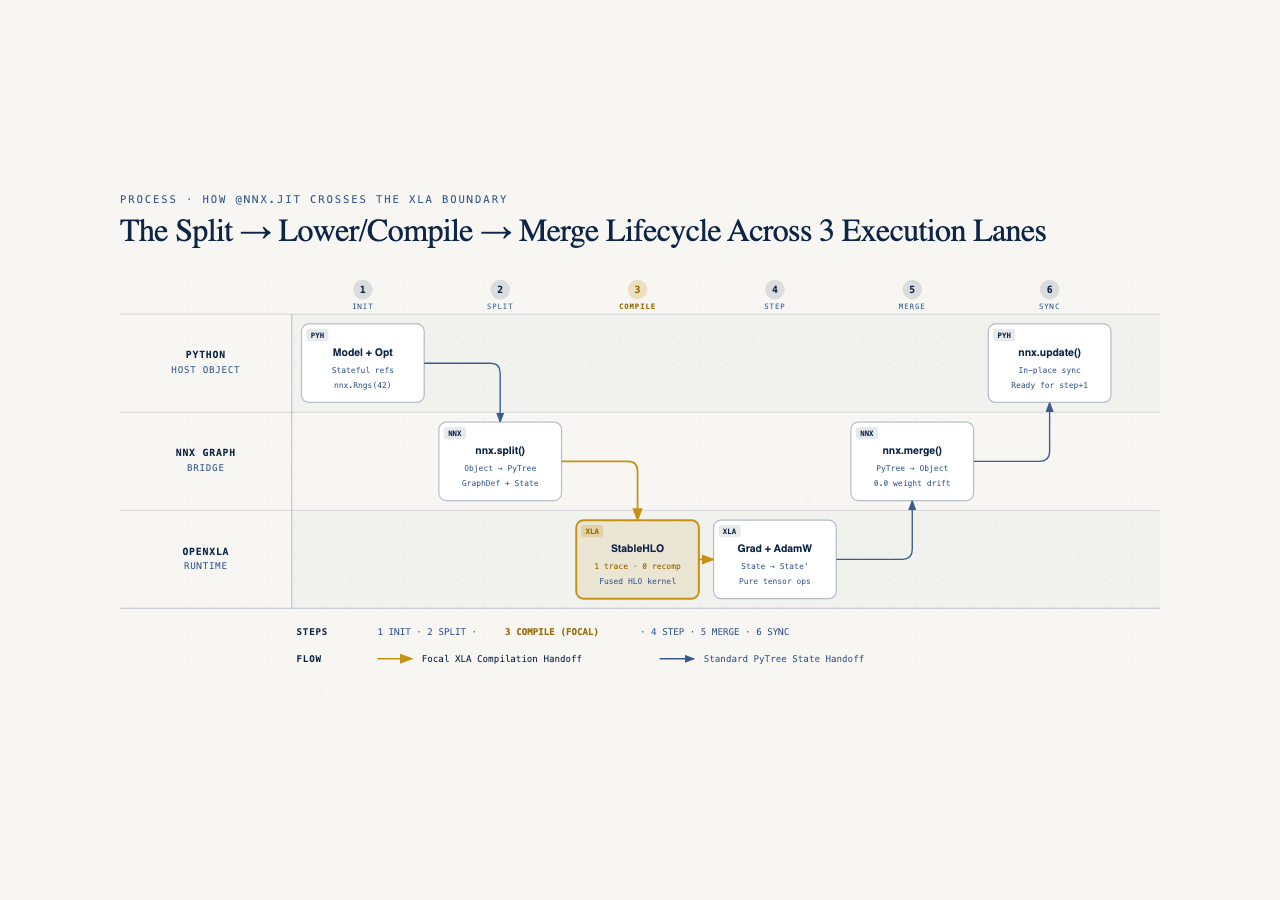
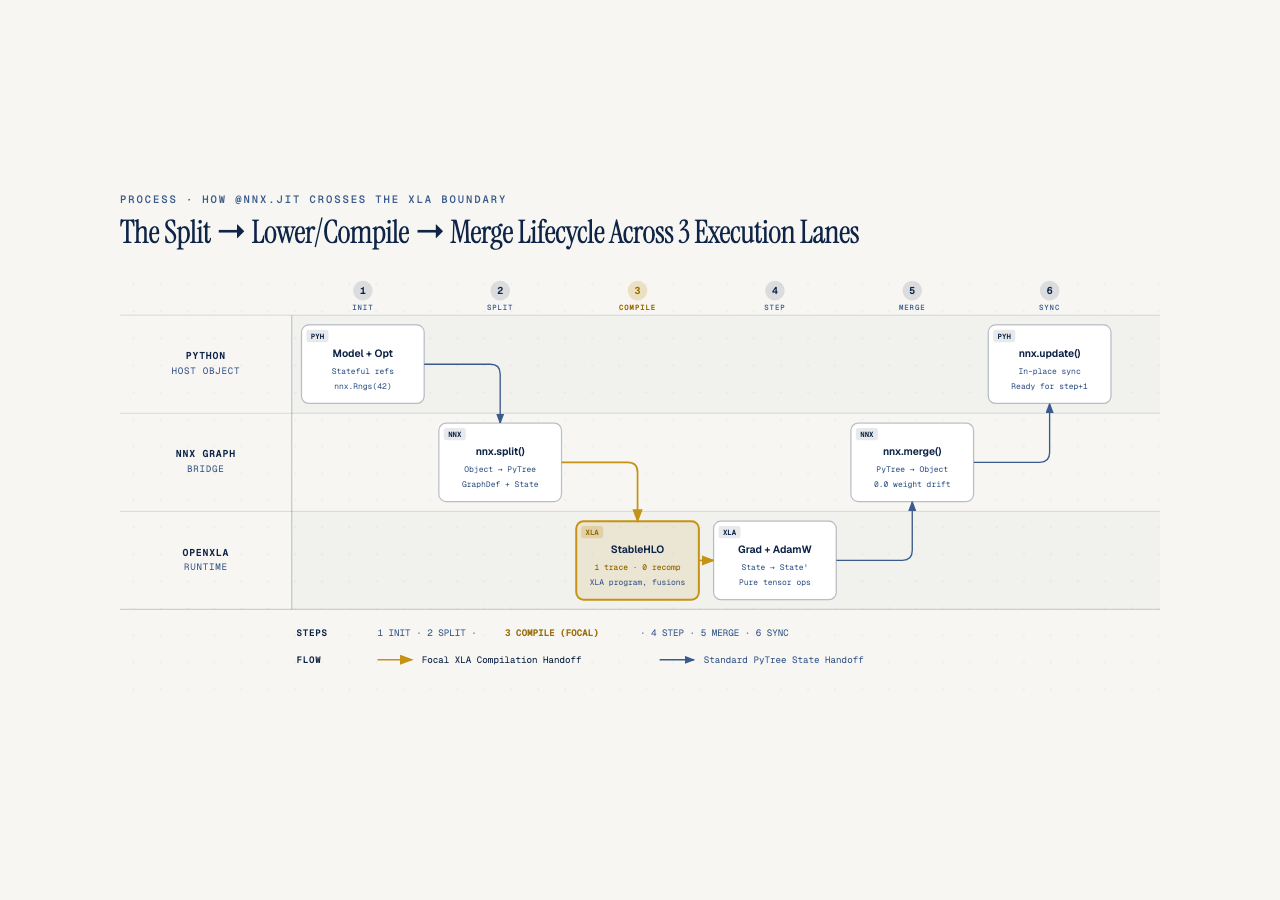
Reframe first-step ratio and fusion count labels; require flax>=0.12

diff --git a/diagrams/03-split-jit-merge.html b/diagrams/03-split-jit-merge.html
@@ -176,7 +176,7 @@
         <text x="385" y="215.5" fill="#9A6F0B" font-family="'Geist Mono', monospace" font-size="6" font-weight="600" text-anchor="middle">XLA</text>
         <text x="422" y="230" fill="#0F2547" font-family="'Geist', sans-serif" font-size="8.5" font-weight="600" text-anchor="middle">StableHLO</text>
         <text x="422" y="244" fill="#9A6F0B" font-family="'Geist Mono', monospace" font-size="6.5" text-anchor="middle">1 trace · 0 recomp</text>
-        <text x="422" y="256" fill="#3B5B8C" font-family="'Geist Mono', monospace" font-size="6.5" text-anchor="middle">Fused HLO kernel</text>
+        <text x="422" y="256" fill="#3B5B8C" font-family="'Geist Mono', monospace" font-size="6.5" text-anchor="middle">XLA program, fusions</text>
 
         <!-- Node 3: Lane 2 (XLA), Step 3 (x=484, y=204) -->
         <rect x="484" y="204" width="100" height="64" rx="6" fill="#FFFFFF" stroke="rgba(15,37,71,0.28)" stroke-width="1"/>

diff --git a/experiments/05_inspect_stablehlo_recompiles.py b/experiments/05_inspect_stablehlo_recompiles.py
@@ -127,13 +127,13 @@ def run_experiment(steps: int = 50) -> dict[str, Any]:
     print("=" * 72)
     print("EXPERIMENT 05: StableHLO Inspection & Zero-Recompilation Audit")
     print("=" * 72)
-    print(f"Python traces on Step 1 : {results['traces_on_step_1']}")
+    print(f"Traces before step 1    : {results['traces_on_step_1']}")
     print(f"Total traces (50 steps) : {results['total_traces_after_50_steps']}")
     print(f"Recompiles after Step 1 : {results['recompilations_after_step_1']}")
     print(f"StableHLO IR lines      : {results['stablehlo_line_count']}")
     print(f"stablehlo.dot_general   : {results['stablehlo_dot_general_count']}")
     print(f"stablehlo.reduce        : {results['stablehlo_reduce_count']}")
-    print(f"Compiled HLO fusions    : {results['compiled_hlo_fusion_mentions']}")
+    print(f"HLO lines with fusion   : {results['compiled_hlo_fusion_mentions']}")
     assert recompiles_after_warmup == 0, "Expected 0 recompilations after warmup!"
     return results
 

diff --git a/experiments/04_compiled_train_step.py b/experiments/04_compiled_train_step.py
@@ -215,7 +215,7 @@ def run_experiment(steps: int = 50) -> dict[str, Any]:
     print(f"Step 1 (Compile + Run)  : {results['first_step_compile_and_run_ms']:.2f} ms")
     print(
         f"Steps 2..{steps} Avg Latency : {results['steady_state_step_ms']:.3f} ms "
-        f"({results['speedup_after_jit']}x faster)"
+        f"(first step / cached step = {results['speedup_after_jit']}x)"
     )
     print(
         f"Loss trajectory         : {results['initial_loss']:.4f} -> "

diff --git a/README.md b/README.md
@@ -24,7 +24,7 @@ El modelo implementado en `experiments/03_causal_attention_rope.py` y `experimen
 
 ## El Puente `nnx.split` → `OpenXLA` → `nnx.merge`
 
-Los compiladores como `XLA` exigen funciones matemáticamente puras sin efectos secundarios ocultos. Cuando decoramos un paso de entrenamiento con `@nnx.jit`, `Flax NNX` ejecuta automáticamente `nnx.split(model)` para extraer un `(GraphDef, State)` puro, compila un único kernel fusionado en `StableHLO` y sincroniza los tensores actualizados de regreso a las referencias en memoria con `nnx.merge` / `nnx.update`.
+Los compiladores como `XLA` exigen funciones matemáticamente puras sin efectos secundarios ocultos. Cuando decoramos un paso de entrenamiento con `@nnx.jit`, `Flax NNX` ejecuta automáticamente `nnx.split(model)` para extraer un `(GraphDef, State)` puro, baja la función a `StableHLO`, XLA la compila en un solo programa (con cientos de fusiones en CPU) y sincroniza los tensores actualizados de regreso a las referencias en memoria con `nnx.merge` / `nnx.update`.
 
 ![Flax NNX Split-JIT-Merge Lifecycle](diagrams/03-split-jit-merge.svg)
 
@@ -32,15 +32,15 @@ Los compiladores como `XLA` exigen funciones matemáticamente puras sin efectos 
 
 ## Experimentos Reproducibles y Resultados Verificados (`verify_transformer.py`)
 
-Todos los experimentos fueron ejecutados y auditados con `Python 3.12.11`, `JAX 0.12.0.1`, `Flax 0.12.12`, `Optax 0.2.8` y `PyTorch 2.15.0`.
+Todos los experimentos se ejecutaron en CPU (los tiempos varían entre corridas; las invariantes son deterministas) con `Python 3.12.11`, `JAX 0.12.0.1`, `Flax 0.12.12`, `Optax 0.2.8` y `PyTorch 2.15.0`.
 
 | Experimento | Archivo | Invariante Verificado | Resultado Real Medido |
 | :--- | :--- | :--- | :--- |
 | **01. NNX vs PyTorch** | `experiments/01_nnx_module_vs_torch.py` | Paridad numérica entre `nnx.Module` y `torch.nn.Module` (`36,928` parámetros) | `max_abs_diff = 4.768e-07` |
 | **02. Split / Merge** | `experiments/02_graphdef_split_merge.py` | Reconstrucción sin pérdida `(GraphDef, State)` y mutación selectiva `nnx.LoRAParam` | `weight_diff = 0.000e+00`, `LoRA delta = 0.500` |
 | **03. Causal RoPE** | `experiments/03_causal_attention_rope.py` | Invarianza causal ante perturbación de tokens futuros y preservación de norma L2 en `RoPE` | `prefix_leakage = 0.000e+00`, `RoPE drift = 9.537e-07` |
-| **04. Compiled Step** | `experiments/04_compiled_train_step.py` | Convergencia estrictamente monótona en 50 pasos con `@nnx.jit` y `optax.adamw` (`123,200` params) | `Loss: 5.3140 -> 0.0105 (-99.8%)`, `136.2x` speedup post-JIT |
-| **05. StableHLO Audit** | `experiments/05_inspect_stablehlo_recompiles.py` | Cero recompilaciones tras el paso 1 e inspección de fusiones `StableHLO` / `HLO` | `1 trace / 50 steps`, `0 recompiles`, `57 dot_general`, `281 fusions` |
+| **04. Compiled Step** | `experiments/04_compiled_train_step.py` | Convergencia estrictamente monótona en 50 pasos con `@nnx.jit` y `optax.adamw` (`123,200` params) | `Loss: 5.3140 -> 0.0105 (-99.8%)` sobre un batch fijo; primer paso con tracing y compilación `449.39 ms` contra `3.3 ms` por paso en caché (cociente `136.2x`, costo de compilar una vez) |
+| **05. StableHLO Audit** | `experiments/05_inspect_stablehlo_recompiles.py` | Cero recompilaciones tras el paso 1 e inspección de fusiones `StableHLO` / `HLO` | `1 trace / 50 steps` (la traza ocurre en `.lower()`), `0 recompiles`, `57 dot_general`, `281` líneas de HLO que mencionan `fusion` |
 
 ### Salida Real de Terminal (`benchmarks/terminal_output.txt`)
 
@@ -85,7 +85,7 @@ EXPERIMENT 04: Compiled Mini-Transformer Training with @nnx.jit & Optax
 ========================================================================
 Total trainable params  : 123,200
 Step 1 (Compile + Run)  : 449.39 ms
-Steps 2..50 Avg Latency : 3.300 ms (136.2x faster)
+Steps 2..50 Avg Latency : 3.300 ms (first step / cached step = 136.2x)
 Loss trajectory         : 5.3140 -> 0.0105 (-99.8%)
 Checkpoints             : {'step_1': 5.31398, 'step_10': 0.61135, 'step_20': 0.08582, 'step_30': 0.0291, 'step_40': 0.01549, 'step_50': 0.01053}
 Strictly monotonic      : True
@@ -93,13 +93,13 @@ Strictly monotonic      : True
 ========================================================================
 EXPERIMENT 05: StableHLO Inspection & Zero-Recompilation Audit
 ========================================================================
-Python traces on Step 1 : 1
+Traces before step 1    : 1
 Total traces (50 steps) : 1
 Recompiles after Step 1 : 0
 StableHLO IR lines      : 1563
 stablehlo.dot_general   : 57
 stablehlo.reduce        : 29
-Compiled HLO fusions    : 281
+HLO lines with fusion   : 281
 
 ========================================================================
 VERDICT: ALL 5 FLAX NNX TRANSFORMER INVARIANTS PASSED DETERMINISTICALLY
@@ -149,3 +149,5 @@ make all
 # Ejecutar entrenamiento on-demand en Cloud TPU v5e (tu proyecto en `PROJECT_ID`) con auto-teardown
 bash gcp/run_tpu_training.sh
 ```
+
+El script de TPU está listo, pero este repo todavía no publica cifras medidas en TPU.
